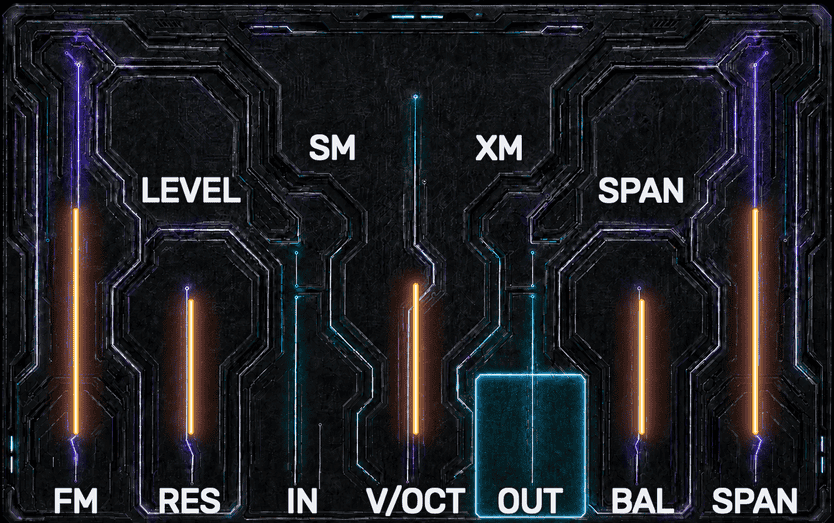
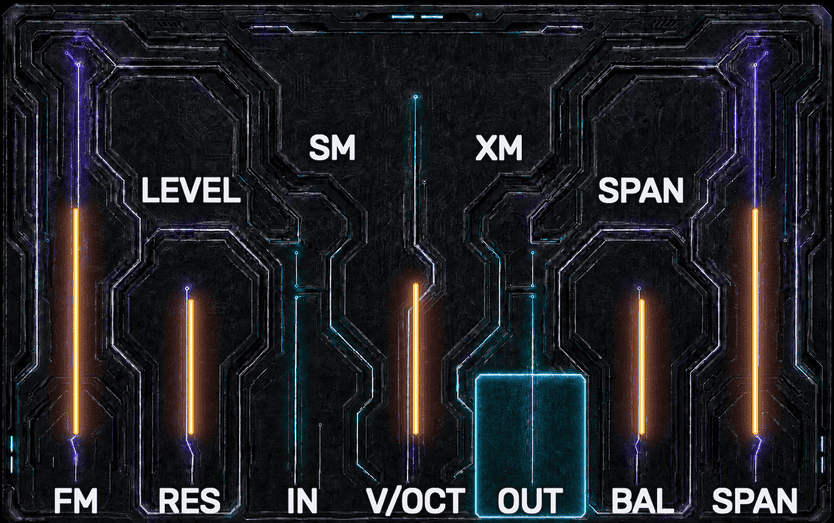
Add more outline/feathering on bifurx text conversion

diff --git a/tools/composite_bifurx_bottom.py b/tools/composite_bifurx_bottom.py
@@ -344,6 +344,7 @@ def build_combined(
     halo_color: tuple[int, int, int],
     fill_expand_px: float,
     tight_radius_px: float,
+    tight_feather_px: float,
     soft_radius_px: float,
     wide_radius_px: float,
     tight_opacity: float,
@@ -356,7 +357,9 @@ def build_combined(
     tight_kernel_radius = max(1, round(tight_radius_px * supersample))
     tight_kernel_size = tight_kernel_radius * 2 + 1
     tight_mask = source_mask.filter(ImageFilter.MaxFilter(tight_kernel_size))
-    tight_mask = tight_mask.filter(ImageFilter.GaussianBlur(0.65 * supersample))
+    tight_mask = tight_mask.filter(
+        ImageFilter.GaussianBlur(tight_feather_px * supersample)
+    )
     soft_mask = source_mask.filter(
         ImageFilter.GaussianBlur(soft_radius_px * supersample)
     )
@@ -588,11 +591,11 @@ def main() -> int:
         args.supersample,
         fill_color=(18, 20, 25),
         halo_color=(255, 255, 255),
-        # Keep the original rim width, but make its tight pass fully white so
-        # the dark labels separate cleanly from the light panel at Rack scale.
+        # Extend the bright rim and let its outside edge fade into the broad halo.
         fill_expand_px=1.5,
-        tight_radius_px=5.0,
-        soft_radius_px=10.0,
+        tight_radius_px=6.5,
+        tight_feather_px=1.5,
+        soft_radius_px=12.0,
         wide_radius_px=24.0,
         tight_opacity=1.0,
         soft_opacity=0.28,
@@ -610,8 +613,9 @@ def main() -> int:
         fill_color=(238, 240, 244),
         halo_color=(2, 4, 8),
         fill_expand_px=1.5,
-        tight_radius_px=5.0,
-        soft_radius_px=10.0,
+        tight_radius_px=6.5,
+        tight_feather_px=1.5,
+        soft_radius_px=12.0,
         wide_radius_px=24.0,
         tight_opacity=0.48,
         soft_opacity=0.28,
